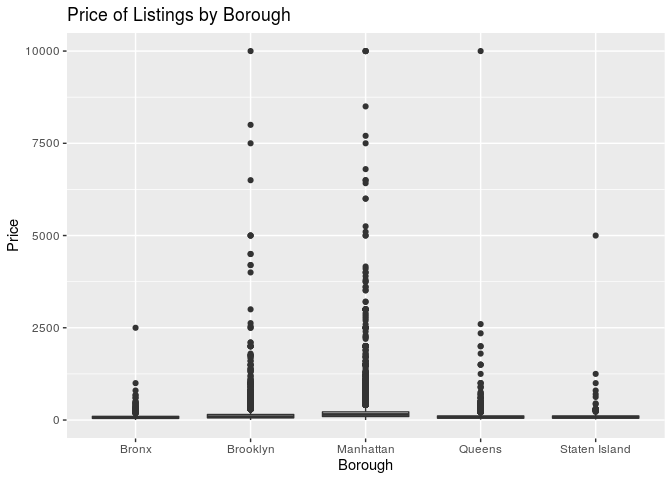
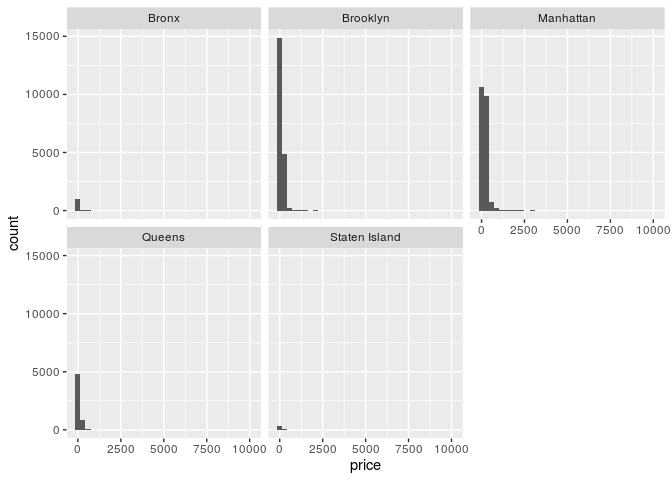
Edits to Section 2

diff --git a/proposal/proposal.md b/proposal/proposal.md
@@ -110,12 +110,30 @@ abnb %>%
 
 ``` r
 abnb %>%
-  ggplot(mapping = aes(x = neighbourhood_group, y = price)) +
-  geom_boxplot() + 
-  labs(title = "Price of Listings by Borough", x = "Borough", y = "Price")
+  ggplot(mapping = aes(x = price)) +
+  geom_histogram(bins=35) +
+  facet_wrap(.~neighbourhood_group)
 ```
 
 ![](proposal_files/figure-gfm/price-borough-1.png)<!-- -->
+
+``` r
+  labs(title = "Price of Listings by Borough", x = "Borough", y = "Price")
+```
+
+    ## $x
+    ## [1] "Borough"
+    ## 
+    ## $y
+    ## [1] "Price"
+    ## 
+    ## $title
+    ## [1] "Price of Listings by Borough"
+    ## 
+    ## attr(,"class")
+    ## [1] "labels"
+
+Lots of right skew…
 
 ``` r
 abnb %>%
@@ -155,6 +173,14 @@ abnb %>%
     ## 4 Queens              Neponsit                274
     ## 5 Manhattan           NoHo                    250
 
+``` r
+abnb %>%
+  ggplot(mapping = aes (x = longitude, y = latitude, color = price)) +
+  geom_point(alpha = 0.6)
+```
+
+![](proposal_files/figure-gfm/unnamed-chunk-1-1.png)<!-- -->
+
 LISTING DETAILS AND AVAILABILITY
 
 ``` r
@@ -167,36 +193,86 @@ abnb %>%
   )
 ```
 
-![](proposal_files/figure-gfm/unnamed-chunk-1-1.png)<!-- -->
+![](proposal_files/figure-gfm/unnamed-chunk-2-1.png)<!-- -->
 
 ``` r
 abnb %>%
-  ggplot(mapping = aes(x =  reviews_per_month, y = availability_365, color = room_type)) +
-  geom_point(alpha=0.2) + 
+  ggplot(mapping = aes(x =  room_type, y = availability_365)) +
+  geom_boxplot() + 
   labs(
-    title = "Availability and Number of Reviews",
-    x = "Number of Reviews", 
+    title = "Availability by Room Type",
+    x = "Room Type", 
     y = "Availability (days per year)")
 ```
-
-    ## Warning: Removed 10052 rows containing missing values (geom_point).
 
 ![](proposal_files/figure-gfm/room_type-availability_365-1.png)<!-- -->
 
 ``` r
 abnb %>%
-  mutate(avail = ifelse(availability_365 > median(availability_365), "more", "less")) %>%
-  filter(avail == "more") %>%
-  ggplot(mapping = aes(x =  number_of_reviews, y = availability_365, color = room_type)) +
-  geom_point() + 
-  labs(
-    title = "Availability and Number of Reviews by Room Type",
-    subtitle = "Below Median Availability",
-    x = "Number of Reviews", 
-    y = "Availability (days per year)")
+  group_by(room_type) %>%
+  summarise(
+    med_availability_365 = median(availability_365), 
+    IQR_availability_365 = IQR(availability_365)
+    ) %>%
+  arrange(desc(med_availability_365)) %>%
+  head(5)
 ```
 
-![](proposal_files/figure-gfm/unnamed-chunk-2-1.png)<!-- -->
+    ## # A tibble: 3 x 3
+    ##   room_type       med_availability_365 IQR_availability_365
+    ##   <chr>                          <dbl>                <dbl>
+    ## 1 Shared room                       90                  341
+    ## 2 Private room                      45                  214
+    ## 3 Entire home/apt                   42                  229
+
+``` r
+abnb %>%
+  group_by(room_type) %>%
+  summarise(
+    med_availability_365 = median(availability_365), 
+    IQR_availability_365 = IQR(availability_365)
+    ) %>%
+  arrange(desc(med_availability_365)) %>%
+  head(5)
+```
+
+    ## # A tibble: 3 x 3
+    ##   room_type       med_availability_365 IQR_availability_365
+    ##   <chr>                          <dbl>                <dbl>
+    ## 1 Shared room                       90                  341
+    ## 2 Private room                      45                  214
+    ## 3 Entire home/apt                   42                  229
+
+``` r
+abnb %>%
+  mutate(avail = case_when(
+    availability_365 < 100            ~ "Very Busy",
+    availability_365 < 200 && availability_365 > 100  ~ "Somewhat Busy",
+    availability_365 > 300    ~ "Not Busy",)
+    ) %>%
+ggplot(mapping = aes(x = room_type, fill = avail)) +
+  geom_bar(position = "fill")
+```
+
+![](proposal_files/figure-gfm/unnamed-chunk-4-1.png)<!-- -->
+
+Note that there are NAs.
+
+``` r
+abnb %>%
+  mutate(avail = case_when(
+    availability_365 < 100            ~ "Very Busy",
+    availability_365 >= 100 & availability_365 <= 300  ~ "Somewhat Busy",
+    availability_365 > 300    ~ "Not Busy",)
+    ) %>%
+ggplot(mapping = aes(x = calculated_host_listings_count, y = reviews_per_month)) +
+  geom_point() +
+  facet_grid(room_type ~ avail)
+```
+
+    ## Warning: Removed 10052 rows containing missing values (geom_point).
+
+![](proposal_files/figure-gfm/avail-by-room_type-reviews-1.png)<!-- -->
 
 ### Section 3. Research questions
 
